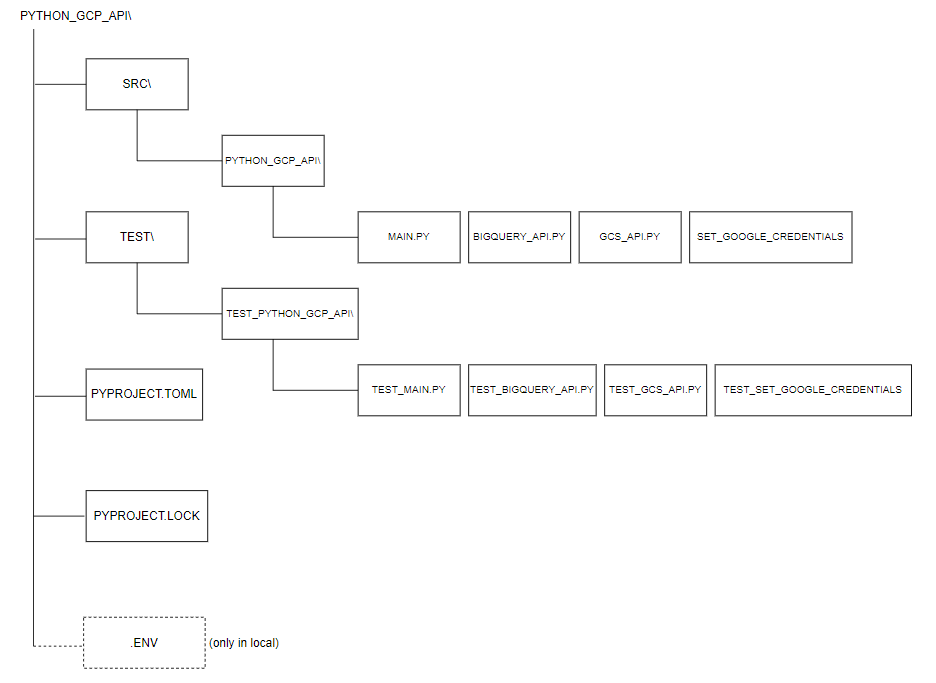
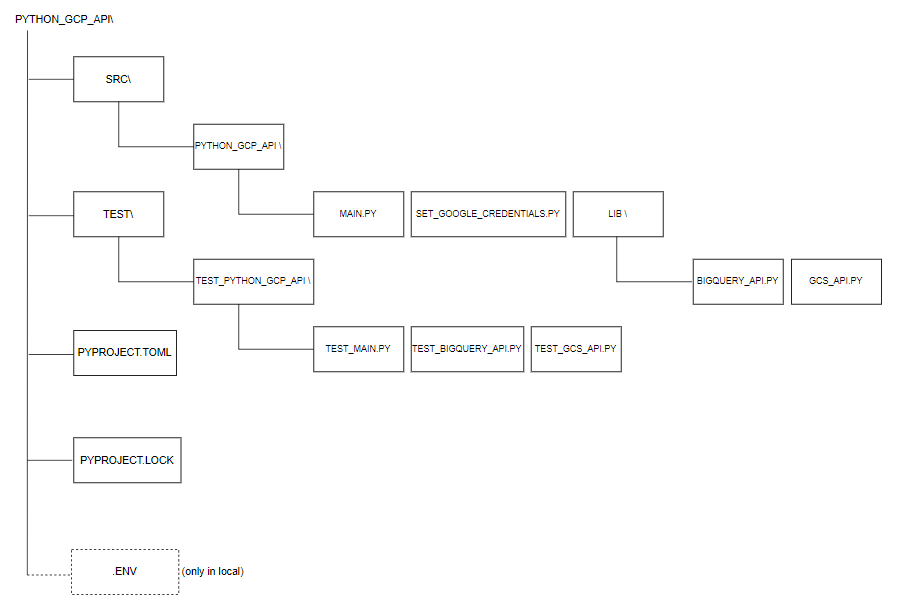
Refactor repo arch

diff --git a/Python_GCP_API/test/test_python_gcp_api/test_bigquery_api.py b/Python_GCP_API/test/test_python_gcp_api/test_bigquery_api.py
@@ -1,6 +1,6 @@
 import unittest
 from dotenv import load_dotenv
-from python_gcp_api.bigquery_api import BigqueryApi
+from python_gcp_api.lib.bigquery_api import BigqueryApi
 
 
 class BigqueryApiTest(unittest.TestCase):
